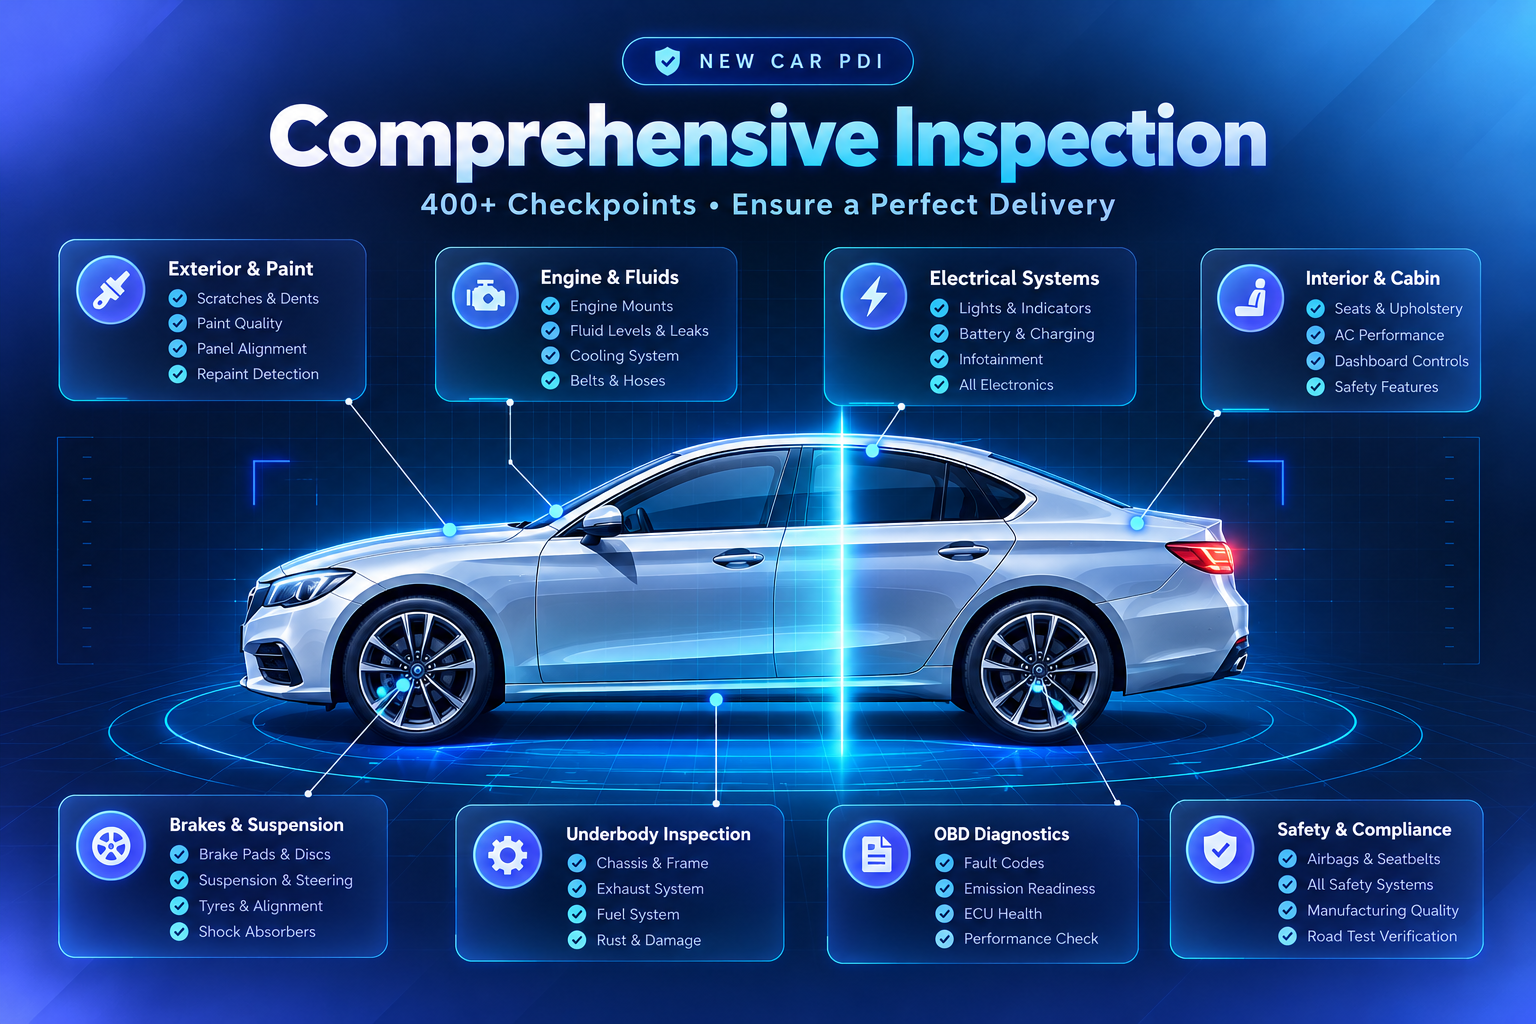
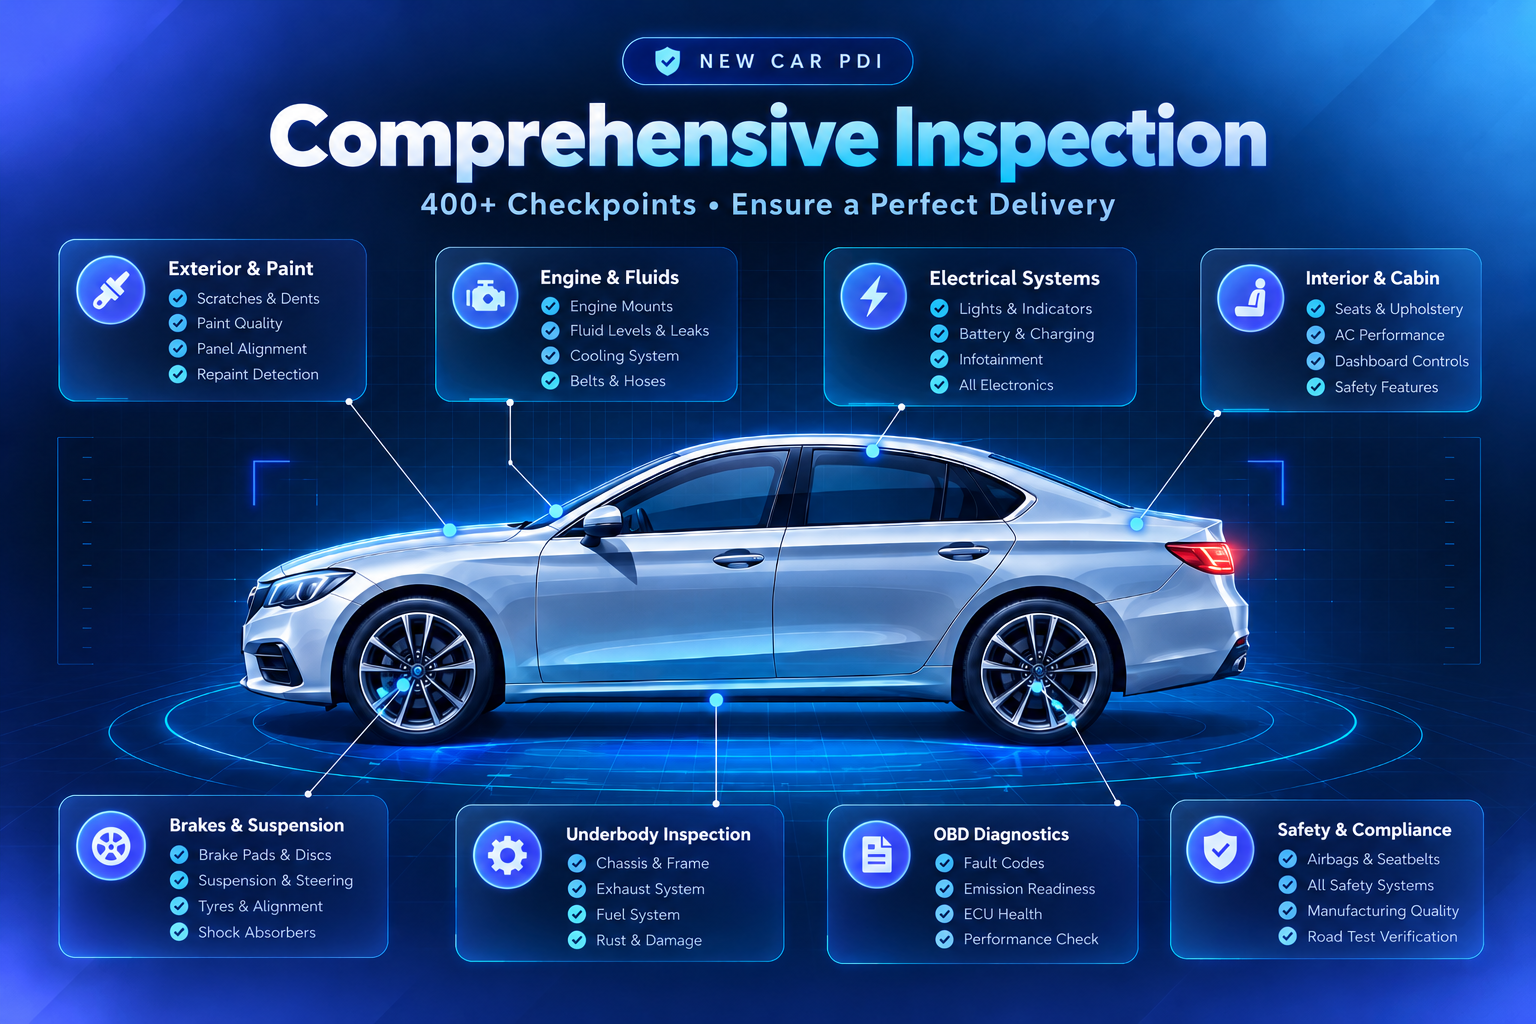
Hero image UI updated

diff --git a/app/[city]/new-cars/page.tsx b/app/[city]/new-cars/page.tsx
@@ -539,15 +539,50 @@ Recommended PDI
 
 <div className="relative isolate mx-auto w-full max-w-[620px] lg:mt-[4.5rem]">
     <div className="relative aspect-[3/2] w-full overflow-hidden rounded-[2rem] bg-[#06152f] shadow-[0_30px_80px_rgba(0,0,0,0.15)] lg:rounded-[2.3rem]">
-    <Image
-        src="/new-cars-pdi.png"
-        alt={`Professional new-car pre-delivery inspection in ${selectedCity}`}
-        width={1536}
-        height={1024}
-        priority
-        sizes="(max-width: 1024px) 100vw, 50vw"
-        className="absolute inset-0 h-full w-full object-contain object-center"
-    />
+        <Image
+            src="/new-cars-pdi.png"
+            alt={`Professional new-car pre-delivery inspection in ${selectedCity}`}
+            width={1536}
+            height={1024}
+            priority
+            sizes="(max-width: 1024px) 100vw, 50vw"
+            className="absolute inset-0 h-full w-full object-contain object-center"
+        />
+
+        {/* Animated blue vertical scanning line */}
+        <div
+            aria-hidden="true"
+            className="new-car-scan-vertical pointer-events-none absolute top-[39%] bottom-[18%] z-10 w-[3px]"
+        >
+            <div className="absolute inset-0 bg-cyan-300 shadow-[0_0_8px_3px_rgba(34,211,238,0.95)]" />
+            <div className="absolute -inset-x-[8px] inset-y-0 bg-cyan-400/25 blur-md" />
+        </div>
+
+        <style jsx>{`
+            .new-car-scan-vertical {
+                left: 23%;
+                animation: new-car-scan 2.2s ease-in-out infinite alternate;
+            }
+
+            @keyframes new-car-scan {
+                from {
+                    left: 23%;
+                    opacity: 0.95;
+                }
+                to {
+                    left: 82%;
+                    opacity: 0.95;
+                }
+            }
+
+            @media (prefers-reduced-motion: reduce) {
+                .new-car-scan-vertical {
+                    animation: none;
+                    left: 50%;
+                    opacity: 0.55;
+                }
+            }
+        `}</style>
     </div>
 
     {/* QUICK STATS — placed below the hero image */}
@@ -674,6 +709,7 @@ Recommended PDI
 
             </section>
 
+ 
 
             {/* =====================================================
 

diff --git a/app/new-cars/page.tsx b/app/new-cars/page.tsx
@@ -539,15 +539,50 @@ Recommended PDI
 
 <div className="relative isolate mx-auto w-full max-w-[620px] lg:mt-[4.5rem]">
     <div className="relative aspect-[3/2] w-full overflow-hidden rounded-[2rem] bg-[#06152f] shadow-[0_30px_80px_rgba(0,0,0,0.15)] lg:rounded-[2.3rem]">
-    <Image
-        src="/new-cars-pdi.png"
-        alt={`Professional new-car pre-delivery inspection in ${selectedCity}`}
-        width={1536}
-        height={1024}
-        priority
-        sizes="(max-width: 1024px) 100vw, 50vw"
-        className="absolute inset-0 h-full w-full object-contain object-center"
-    />
+        <Image
+            src="/new-cars-pdi.png"
+            alt={`Professional new-car pre-delivery inspection in ${selectedCity}`}
+            width={1536}
+            height={1024}
+            priority
+            sizes="(max-width: 1024px) 100vw, 50vw"
+            className="absolute inset-0 h-full w-full object-contain object-center"
+        />
+
+        {/* Animated blue vertical scanning line */}
+        <div
+            aria-hidden="true"
+            className="new-car-scan-vertical pointer-events-none absolute top-[39%] bottom-[18%] z-10 w-[3px]"
+        >
+            <div className="absolute inset-0 bg-cyan-300 shadow-[0_0_8px_3px_rgba(34,211,238,0.95)]" />
+            <div className="absolute -inset-x-[8px] inset-y-0 bg-cyan-400/25 blur-md" />
+        </div>
+
+        <style jsx>{`
+            .new-car-scan-vertical {
+                left: 23%;
+                animation: new-car-scan 2.2s ease-in-out infinite alternate;
+            }
+
+            @keyframes new-car-scan {
+                from {
+                    left: 23%;
+                    opacity: 0.95;
+                }
+                to {
+                    left: 82%;
+                    opacity: 0.95;
+                }
+            }
+
+            @media (prefers-reduced-motion: reduce) {
+                .new-car-scan-vertical {
+                    animation: none;
+                    left: 50%;
+                    opacity: 0.55;
+                }
+            }
+        `}</style>
     </div>
 
     {/* QUICK STATS — placed below the hero image */}

diff --git a/app/[city]/used-cars/page.tsx b/app/[city]/used-cars/page.tsx
@@ -465,9 +465,44 @@ export default function UsedCarsPage() {
             sizes="(max-width: 1024px) 100vw, 50vw"
             className="block h-auto w-full object-contain"
         />
+
+        {/* Animated blue vertical scanning line */}
+        <div
+            aria-hidden="true"
+            className="ppi-scan-vertical pointer-events-none absolute top-[38%] bottom-[20%] z-10 w-[3px]"
+        >
+            <div className="absolute inset-0 bg-cyan-300 shadow-[0_0_8px_3px_rgba(34,211,238,0.95)]" />
+            <div className="absolute -inset-x-2 inset-y-0 bg-cyan-400/30 blur-md" />
+        </div>
+
+        <style jsx>{`
+            .ppi-scan-vertical {
+                left: 13%;
+                animation: ppi-scan-v 2.2s ease-in-out infinite alternate;
+            }
+
+            @keyframes ppi-scan-v {
+                from {
+                    left: 16%;
+                    opacity: 0.95;
+                }
+                to {
+                    left: 82%;
+                    opacity: 0.95;
+                }
+            }
+
+            @media (prefers-reduced-motion: reduce) {
+                .ppi-scan-vertical {
+                    animation: none;
+                    left: 50%;
+                    opacity: 0.55;
+                }
+            }
+        `}</style>
     </div>
 
-                        {/* QUICK STATS */}
+    {/* QUICK STATS */}
 
 
 
@@ -661,10 +696,6 @@ export default function UsedCarsPage() {
 
 
             </section>
-
-
-
-
 
 
             {/* =================================================

diff --git a/app/used-cars/page.tsx b/app/used-cars/page.tsx
@@ -465,9 +465,44 @@ export default function UsedCarsPage() {
             sizes="(max-width: 1024px) 100vw, 50vw"
             className="block h-auto w-full object-contain"
         />
+
+        {/* Animated blue vertical scanning line */}
+        <div
+            aria-hidden="true"
+            className="ppi-scan-vertical pointer-events-none absolute top-[38%] bottom-[20%] z-10 w-[3px]"
+        >
+            <div className="absolute inset-0 bg-cyan-300 shadow-[0_0_8px_3px_rgba(34,211,238,0.95)]" />
+            <div className="absolute -inset-x-2 inset-y-0 bg-cyan-400/30 blur-md" />
+        </div>
+
+        <style jsx>{`
+            .ppi-scan-vertical {
+                left: 13%;
+                animation: ppi-scan-v 2.2s ease-in-out infinite alternate;
+            }
+
+            @keyframes ppi-scan-v {
+                from {
+                    left: 16%;
+                    opacity: 0.95;
+                }
+                to {
+                    left: 82%;
+                    opacity: 0.95;
+                }
+            }
+
+            @media (prefers-reduced-motion: reduce) {
+                .ppi-scan-vertical {
+                    animation: none;
+                    left: 50%;
+                    opacity: 0.55;
+                }
+            }
+        `}</style>
     </div>
 
-                        {/* QUICK STATS */}
+    {/* QUICK STATS */}
 
 
 
